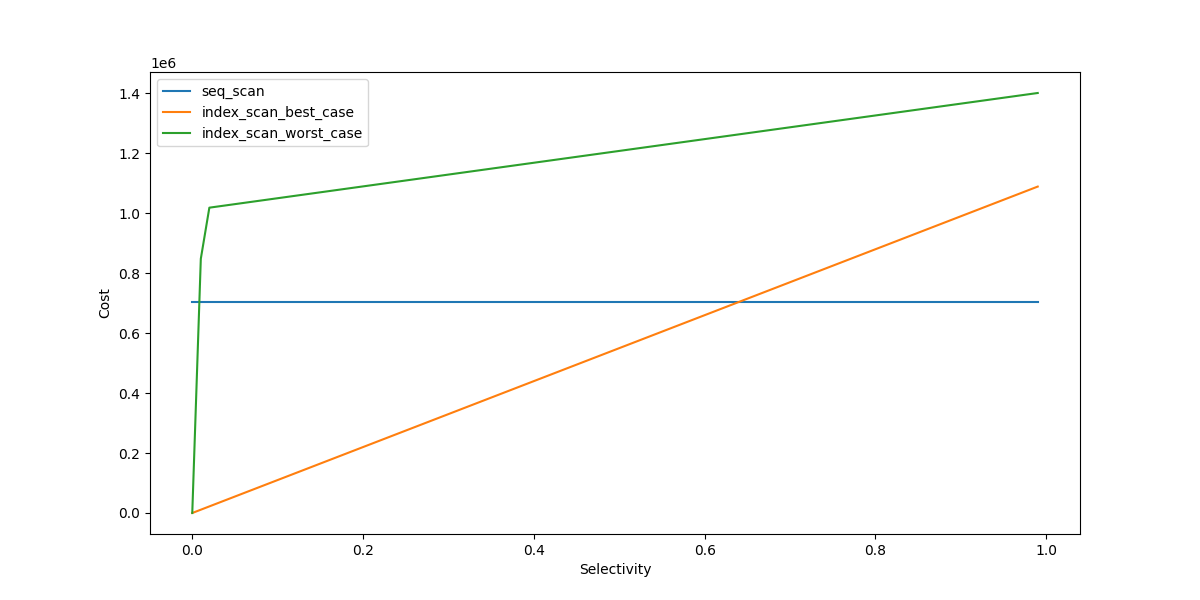
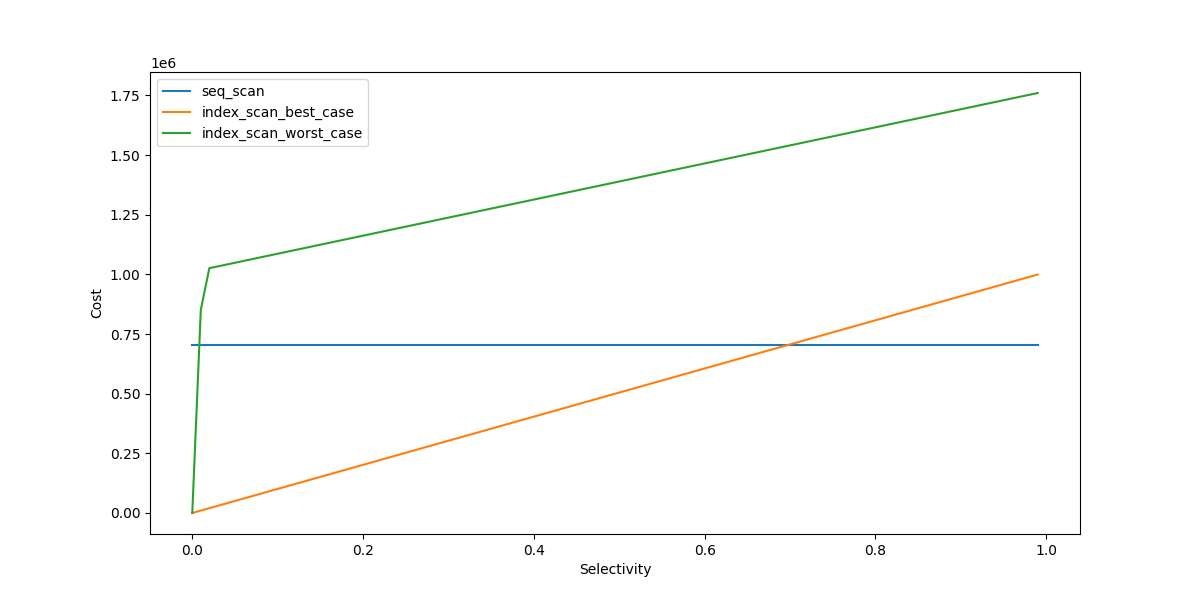
Index scan deep dive - WIP

diff --git a/postgres/index_scan_perf/draw_graph.py b/postgres/index_scan_perf/draw_graph.py
@@ -42,10 +42,10 @@ def get_plot_by_table_size(func, xT, xN, s, b):
     plt.show()
 
 
-def get_plot_seq_index(xs, T, N, b, t, n, scenario):
+def get_plot_seq_index(xs, T, N, b, t, n, k1, k2, scenario):
     seqcosts = []
     for _ in xs:
-        seqcosts.append(0.0125 * N + T)
+        seqcosts.append((0.01 + 0.0025 * k1) * N + T)
     seqcosts = np.array(seqcosts)
     plt.figure(figsize=(12, 6))
     plt.plot(xs, seqcosts, label="seq_scan")
@@ -53,9 +53,9 @@ def get_plot_seq_index(xs, T, N, b, t, n, scenario):
     indexcosts_best = []
     indexcosts_worst = []
     for s in xs:
-        index_space_cost = 0.0075 * s * n + 4 * s * t
+        index_space_cost = (0.005 + k2 * 0.0025) * s * n + 4 * s * t
 
-        table_space_cost_best = 0.0125 * s * N + s * T
+        table_space_cost_best = (0.01 + (k1 - k2) * 0.0025) * s * N + s * T
         indexcosts_best.append(index_space_cost + table_space_cost_best)
 
         if T <= b:
@@ -68,6 +68,7 @@ def get_plot_seq_index(xs, T, N, b, t, n, scenario):
             table_space_cost_worst = 4 * (
                 b + (N * s - 2 * T * b / (2 * T - b)) * (T - b) / T
             )
+        table_space_cost_worst += (0.01 + (k1 - k2) * 0.0025) * s * N
         indexcosts_worst.append(index_space_cost + table_space_cost_worst)
 
     plt.plot(xs, indexcosts_best, label="index_scan_best_case")
@@ -79,12 +80,42 @@ def get_plot_seq_index(xs, T, N, b, t, n, scenario):
 
 
 xs = np.arange(0, 1, 0.01)
+T = 179509
+N = 10950049
+b = 524288
+t = 102924
+n = 10950049
+k1 = 2
+k2 = 1
+get_plot_seq_index(xs, T, N, b, t, n, k1, k2, "table_fit_cache_1")
+
+T = 252687
+N = 36233108
+b = 524288
+t = 30663
+n = 36233108
+k1 = 1
+k2 = 1
+get_plot_seq_index(xs, T, N, b, t, n, k1, k2, "table_fit_cache_2")
+
+T = 179509
+N = 10950049
+b = 131072
+t = 102924
+n = 10950049
+k1 = 2
+k2 = 1
+get_plot_seq_index(xs, T, N, b, t, n, k1, k2, "table_bigger_cache_1")
+
 T = 252687
 N = 36233108
 b = 131072
 t = 30663
 n = 36233108
-get_plot_seq_index(xs, T, N, b, t, n, "table_bigger_cache_2")
+k1 = 1
+k2 = 1
+get_plot_seq_index(xs, T, N, b, t, n, k1, k2, "table_bigger_cache_2")
+
 # get_plot_by_selectivity(page_fetched_worst_case, xs, T, N, b)
 
 # T = 600000

diff --git a/postgres/index_scan_perf/index_scan_perf.md b/postgres/index_scan_perf/index_scan_perf.md
@@ -38,14 +38,19 @@ In PG, the term of `cost` refers to a number in an arbitrary unit, that indicate
 
 **cpu_operator_cost**: Cost of execute an operator in a query. Default value is 0.0025.
 
+Our goal is to have a visualization of each scan type cost. To avoid too many case figures in the calculation, we assume the following:
+- The index is a fully one, not partial
+- The query doesn't contain operators that lead to a loop. Example: IN, = ANY(ARRAY()), JOIN
+We consider these situations in the end to generalize the result.
+
 In the following calculation, we use:
 - T refers to the number of pages in the table
 - N refers to the number of tuples in the table
 - t refers to the number of pages in the index
 - n refers to the number of tuples in the index
 - b refers to the number of pages in the cache (both Postgres and OS)
-
-//We assume there is 1 condition in the query.
+- k1 refers to the number of conditions in the query
+- k2 refers to the number of conditions used by the index.
 
 ### Sequential Scan cost
 
@@ -55,13 +60,13 @@ Sequential scan cost consists of CPU cost and IO cost:
 $$sequential\\_scan\\_cost = seq\\_cpu\\_cost + seq\\_IO\\_cost$$
 
 For CPU, PG check all the tuples against the conditions, plus the cost to process a data entry:
-$$seq\\_cpu\\_cost = (cpu\\_tuple\\_cost + cpu\\_operator\\_cost) * n\\_tuples = 0.0125 * N$$
+$$seq\\_cpu\\_cost = (cpu\\_tuple\\_cost + k_1 * cpu\\_operator\\_cost) * n\\_tuples = (0.01 + 0.0025 * k_1) * N$$
 
 For IO, PG must visit all the pages. Heap pages read are sequential:
 $$seq\\_IO\\_cost = seq\\_page\\_cost * n\\_pages = T$$
 
 The total cost of a sequential scan operation is:
-$$sequential\\_scan\\_cost = 0.0125 * N + T$$
+$$sequential\\_scan\\_cost = (0.01 + 0.0025 * k_1) * N + T$$
 
 ### Index Scan cost
 
@@ -78,44 +83,57 @@ The index space visiting cost using BTREE  is computed by 2 functions `genericco
 
 > **Selectivity**
 >
-> In Index Scan, **selectivity** refers to the ratio of the number of index entries that satisfy the filter conditions on the total number of index entries.
+> In Index Scan, **indexSelectivity** refers to the ratio of the number of table entries that satisfy the filter conditions on the total number of table entries. Let's call it `s`.
 >
-> In the calculation, we use `s` to refer to `Selectivity`. We have:
-> $$n\\_index\\_tuples\\_read =  s * n\\_index\\_tuples = s * n$$ 
+> We have:
+>
+> $$n\\_tuples\\_fetched = s * n\\_tuples = s * N$$
+>
+> "For a btree scan, only leading '=' quals plus inequality quals for the immediately next attribute contribute to index selectivity". So **btreeSelectivity** is greater than or equal to **indexSelectivity**. We use `bs` to refers to the btreeSelectivity. We have:
+> 
+> $$n\\_index\\_tuples\\_read =  bs * n\\_index\\_tuples = bs * n$$ 
 > 
 > and:
 > 
-> $$ n\\_index\\_pages\\_fetched = s * n\\_index\\_pages = s * t$$
+> $$ n\\_index\\_pages\\_fetched = bs * n\\_index\\_pages = bs * t$$
 
 
 Index CPU cost consists of the cost to traverse the tree to find relevant index tuples and the cost to process those tuples:
-$$index\\_cpu\\_cost = tree\\_traversal\\_cost + (cpu\\_index\\_tuple\\_cost + cpu\\_operator\\_cost) * n\\_index\\_tuples\\_read$$ 
+$$index\\_cpu\\_cost = tree\\_traversal\\_cost + (cpu\\_index\\_tuple\\_cost + k_2 * cpu\\_operator\\_cost) * n\\_index\\_tuples\\_read$$ 
 
 With:
 $$tree\\_traversal\\_cost = ceil(log(n\\_index\\_tuples)/log(2)) * cpu\\_operator\\_cost + 50 * cpu\\_operator\\_cost * (tree\\_height + 1)$$ 
 
 So:
-$$index\\_cpu\\_cost = ceil(log(n)/log(2)) * 0.0025 + 0.125 * (tree\\_height + 1) + 0.0075 * s * n$$
+$$index\\_cpu\\_cost = ceil(log(n)/log(2)) * 0.0025 + 0.125 * (tree\\_height + 1) + (0.005 + k_2 * 0.0025) * bs * n$$
 
-As the goal is not to compute the exact value of index cost, but rather to see its evolution, we can remove `log(n)`, `tree_height` and constants from the formula. They tend to be minor compare to  `0.0075 * s * n` when `n` is large.
+As the goal is not to compute the exact value of index cost, but rather to see its evolution, we can remove `log(n)`, `tree_height` and constants from the formula. They tend to be minor compare to  `(0.005 + k_2 * 0.0025) * bs * n` when `n` is large.
 
 When it comes to IO, index pages are read randomly: 
-$$index\\_IO\\_cost = random\\_page\\_cost * n\\_index\\_pages\\_fetched = 4 * s * t$$
+$$index\\_IO\\_cost = random\\_page\\_cost * n\\_index\\_pages\\_fetched = 4 * bs * t$$
 
 We have the `index_cost` formula as following:
-$$index\\_cost = 0.0075 * s * n + 4 *  s * t$$
+$$index\\_cost = (0.005 + k_2 * 0.0025) * bs * n + 4 *  bs * t$$
+
+Because `bs >= s`, we can replace `bs = s + c`:
+
+$$index\\_cost = (0.005 + k_2 * 0.0025) * (s + c) * n + 4 * (s + c) * t = (0.005 + k_2 * 0.0025) * s * n + 4 * s * t + C$$
+
+We can remove constant from the formula:
+$$index\\_cost = (0.005 + k_2 * 0.0025) * s * n + 4 * s * t$$
 
 #### Table cost
+The table space visiting cost is computed in the function `cost_index` located in `/src/backend/optimizer/path/costsize.c`.
 
-Table CPU cost related to the cost to process a data entry and the cost to check conditions
+Table CPU cost related to the cost to process a data entry and the cost to check conditions. PG only performs check on conditions that haven't been verified by the index.
 
-$$table\\_cpu\\_cost =  (cpu\\_tuple\\_cost + cpu\\_operator\\_cost) * n\\_tuples\\_fetched$$
+$$table\\_cpu\\_cost =  (cpu\\_tuple\\_cost + (k_1 - k_2) * cpu\\_operator\\_cost) * n\\_tuples\\_fetched$$
 
-With:
-$$n\\_tuples\\_fetched = s * n\\_tuples = s * N$$
+As mentioned previously:
+$$n\\_tuples\\_fetched = s * N$$
 
 We have:
-$$table\\_cpu\\_cost = 0.0125 * s * N$$
+$$table\\_cpu\\_cost = (0.01 +  (k_1 - k_2) * 0.0025) * s * N$$
 
 
 Table IO cost depends on the number of pages we need to retrieve from PG. This number is computed in `index_pages_fetched` function located in `/src/backend/optimizer/path/costsize.c`. It depends on a new factor: `Index Correlation`
@@ -174,28 +192,34 @@ $$table\\_IO_cost\\ = table\\_IO\\_cost\\_worst\\_case + C^2(table\\_IO\\_cost\\
 
 
 ### Visualization
-The cost of index size depends on many parameters. We consider some scenarios where T, N, b, t, n are constants (given a table and a server). We draw a graph that illustrates this relation between the index cost and `s`:
+The cost of index size depends on many parameters. We consider some scenarios where T, N, b, t, n, k1 and k2 are constants. We draw a graph that illustrates the relation between the scan cost and `s`:
 
 #### Scenario 1: The table size is smaller than the cache size (T <= b)
 
-**Configuration 1**: From table with 10950049 rows. Each row contains 2 varchar columns, 1 timestamp column and 2 integer columns. The index is on the varchar column and is unique. The effective cache size is 4Gb.
+**Configuration 1**: From table with 10950049 rows. Each row contains 2 varchar columns, 1 timestamp column and 2 integer columns. The index is on the varchar column and is unique. The effective cache size is 4Gb. The query contains 2 conditions and 1 of them is on the index.
+
 ```
 T = 179509
 N = 10950049
 b = 524288
 t = 102924
 n = 10950049
+k1 = 2
+k2 = 1
 ```
 
 ![Seq & Index cost](cost_table_fit_cache_1.png)
 
-**Configuration 2**: From table with 36233108 rows. Each row contains 6 integer columns and 1 varchar column. The index is on the integer column and is not unique. The effective cache size is 4Gb.
+**Configuration 2**: From table with 36233108 rows. Each row contains 6 integer columns and 1 varchar column. The index is on the integer column and is not unique. The effective cache size is 4Gb. The query contains 1 condition it is on the index.
+
 ```
 T = 252687
 N = 36233108
 b = 524288
 t = 30663
 n = 36233108
+k1 = 1
+k2 = 1
 ```
 
 ![Seq & Index cost](cost_table_fit_cache_2.png)
@@ -212,9 +236,11 @@ N = 10950049
 b = 131072
 t = 102924
 n = 10950049
+k1 = 2
+k2 = 1
 ```
 
-![Seq & Index cost](cost_table_bigger_cache.png)
+![Seq & Index cost](cost_table_bigger_cache_1.png)
 
 **Configuration 2**: Same as the configuration 2 of the previous scenario. We reduced the effective cache size to only 1Gb.
 
@@ -224,13 +250,15 @@ N = 36233108
 b = 131072
 t = 30663
 n = 36233108
+k1 = 1
+k2 = 1
 ```
 
 ![Seq & Index cost](cost_table_bigger_cache_2.png)
 
 #### Discussion
 - Index cost is smaller than sequential cost when s is near 0: **index improve performance when it determines only a few row.**
-- With cache or without cache, the difference between the worst and the best index cost is significant. 
-- In the worst case, the index cost increases extremely fast when s increases. The query only need to targets more than about 2% number of rows in the table to trigger a full table scan.
+- Regardless of the cache size available, the difference between the worst and the best index cost is significant when s increases. When retrieve a relatively high number of rows from the table, index correlation has a big impact on the whole index scan process.
+- In the worst case, the index cost increases extremely fast when s increases. The query only need to targets more than about 2% number of rows in the table to be more expensive than a full table scan.
 
 ## Conclusion
